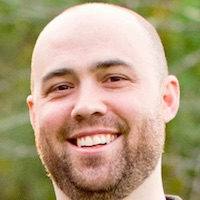
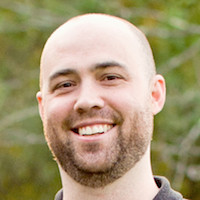
Testimonials, etc

diff --git a/static/d3svg/index.html b/static/d3svg/index.html
@@ -188,7 +188,7 @@
             <li class="text-grey-darker font-thin">D3 in 5 Days PDF Booklet</li>
             <li class="font-bold">Video Course (2.5hrs)</li>
             <li class="font-bold">3 Months of Office Hours</li>
-            <li class="font-bold">30% off Wes Bos courses</li>
+            <li class="font-bold">25% off Wes Bos courses</li>
             <li class="font-bold">30% off Egghead PRO</li>
             <li class="font-bold">Hundreds more in discounts</li>
           </ul>
@@ -210,7 +210,7 @@
             <li class="text-grey-darker font-thin">D3 in 5 Days PDF Booklet</li>
             <li class="text-grey-darker font-thin">Video Course (2.5hrs)</li>
             <li class="text-grey-darker font-thin">3 Months of Office Hours</li>
-            <li class="text-grey-darker font-thin">30% off Wes Bos courses</li>
+            <li class="text-grey-darker font-thin">25% off Wes Bos courses</li>
             <li class="text-grey-darker font-thin">30% off Egghead PRO</li>
             <li class="text-grey-darker font-thin">Hundreds more in discounts</li>
             <li class="font-bold">Live 1-on-1 Call</li>
@@ -237,9 +237,28 @@
       <h2 class="pt-8 pb-1 text-3xl">
         What do readers say?
       </h2>
-      <p class="pb-4">
-        Testimonials
-      </p>
+      <div class="flex flex-col lg:flex-row items-center lg:items-start pb-6">
+        <img src="../headshots/nicholas.jpg" width="120" height="120" class="rounded-full" />
+        <div class="lg:pl-4">
+          <blockquote class="italic text-grey-darker font-light">
+            “Joyfully educational” is rare in a tech book but it’s how I would describe D3 + SVG. I love the writing style and spending extra time with the code examples is very helpful for all the new concepts and knowledge I’m gaining. Highly recommended!
+          </blockquote>
+          <p class="py-4">
+            &#8213; <a href="http://keystroke.fun/">Nicholas Gentile</a>, Software Developer, Money.Net
+          </p>
+        </div>
+      </div>
+      <div class="flex flex-col lg:flex-row items-center lg:items-start pb-6">
+        <img src="../headshots/sundar.jpg" width="120" height="120" class="rounded-full" />
+        <div class="lg:pl-4">
+          <blockquote class="italic text-grey-darker font-light">
+            Ben&#39;s videos and D3 Tips always cover so much in a short space, and this continues with additional depth in the D3 + SVG book. It&#39;s a great guide to get you confidently working with SVG and D3 without getting lost in the abyss. The tone is friendly and very encouraging, with clear examples illustrating some fantastic best practices. You cannot go wrong with it.
+          </blockquote>
+          <p class="py-4">
+            &#8213; <a href="http://eesur.surge.sh">Sundar Singh</a>, Data Visualisation Developer,  Times Higher Education
+          </p>
+        </div>
+      </div>
 
       <!-- OVERCOME OBJECTIONS -->
       <h2 class="pt-8 pb-1 text-3xl">
@@ -299,9 +318,12 @@
       </p>
 
       <!-- UNIQUENESS -->
-      <h2 class="pt-8 pb-1 text-3xl">
-        Proven Experience
+      <h2 class="pt-8 pb-1 text-3xl text-center">
+        A Trusted Instructor
       </h2>
+      <p class="pb-4 text-center">
+        <img class="rounded-full" src="../headshots/ben.jpg" alt="Ben Clinkinbeard">
+      </p>
       <p class="pb-4">
         I'm Ben Clinkinbeard, a developer and instructor with more than 15 years experience. I've been doing data visualization since 2009 and using D3.js since 2011.
       </p>
@@ -350,7 +372,7 @@
             <li class="text-grey-darker font-thin">D3 in 5 Days PDF Booklet</li>
             <li class="font-bold">Video Course (2.5hrs)</li>
             <li class="font-bold">3 Months of Office Hours</li>
-            <li class="font-bold">30% off Wes Bos courses</li>
+            <li class="font-bold">25% off Wes Bos courses</li>
             <li class="font-bold">30% off Egghead PRO</li>
             <li class="font-bold">Hundreds more in discounts</li>
           </ul>
@@ -372,7 +394,7 @@
             <li class="text-grey-darker font-thin">D3 in 5 Days PDF Booklet</li>
             <li class="text-grey-darker font-thin">Video Course (2.5hrs)</li>
             <li class="text-grey-darker font-thin">3 Months of Office Hours</li>
-            <li class="text-grey-darker font-thin">30% off Wes Bos courses</li>
+            <li class="text-grey-darker font-thin">25% off Wes Bos courses</li>
             <li class="text-grey-darker font-thin">30% off Egghead PRO</li>
             <li class="text-grey-darker font-thin">Hundreds more in discounts</li>
             <li class="font-bold">Live 1-on-1 Call</li>
@@ -397,7 +419,7 @@
 
       <!-- URGENCY -->
       <h2 class="pt-8 pb-1 text-3xl">
-        Control your career
+        Take control of your career
       </h2>
       <p class="pb-4">
         Upgrading your skillset puts you in the driver's seat. It increases your market value. It keeps you from being at the mercy of off-the-shelf code that is bound to disappoint.
